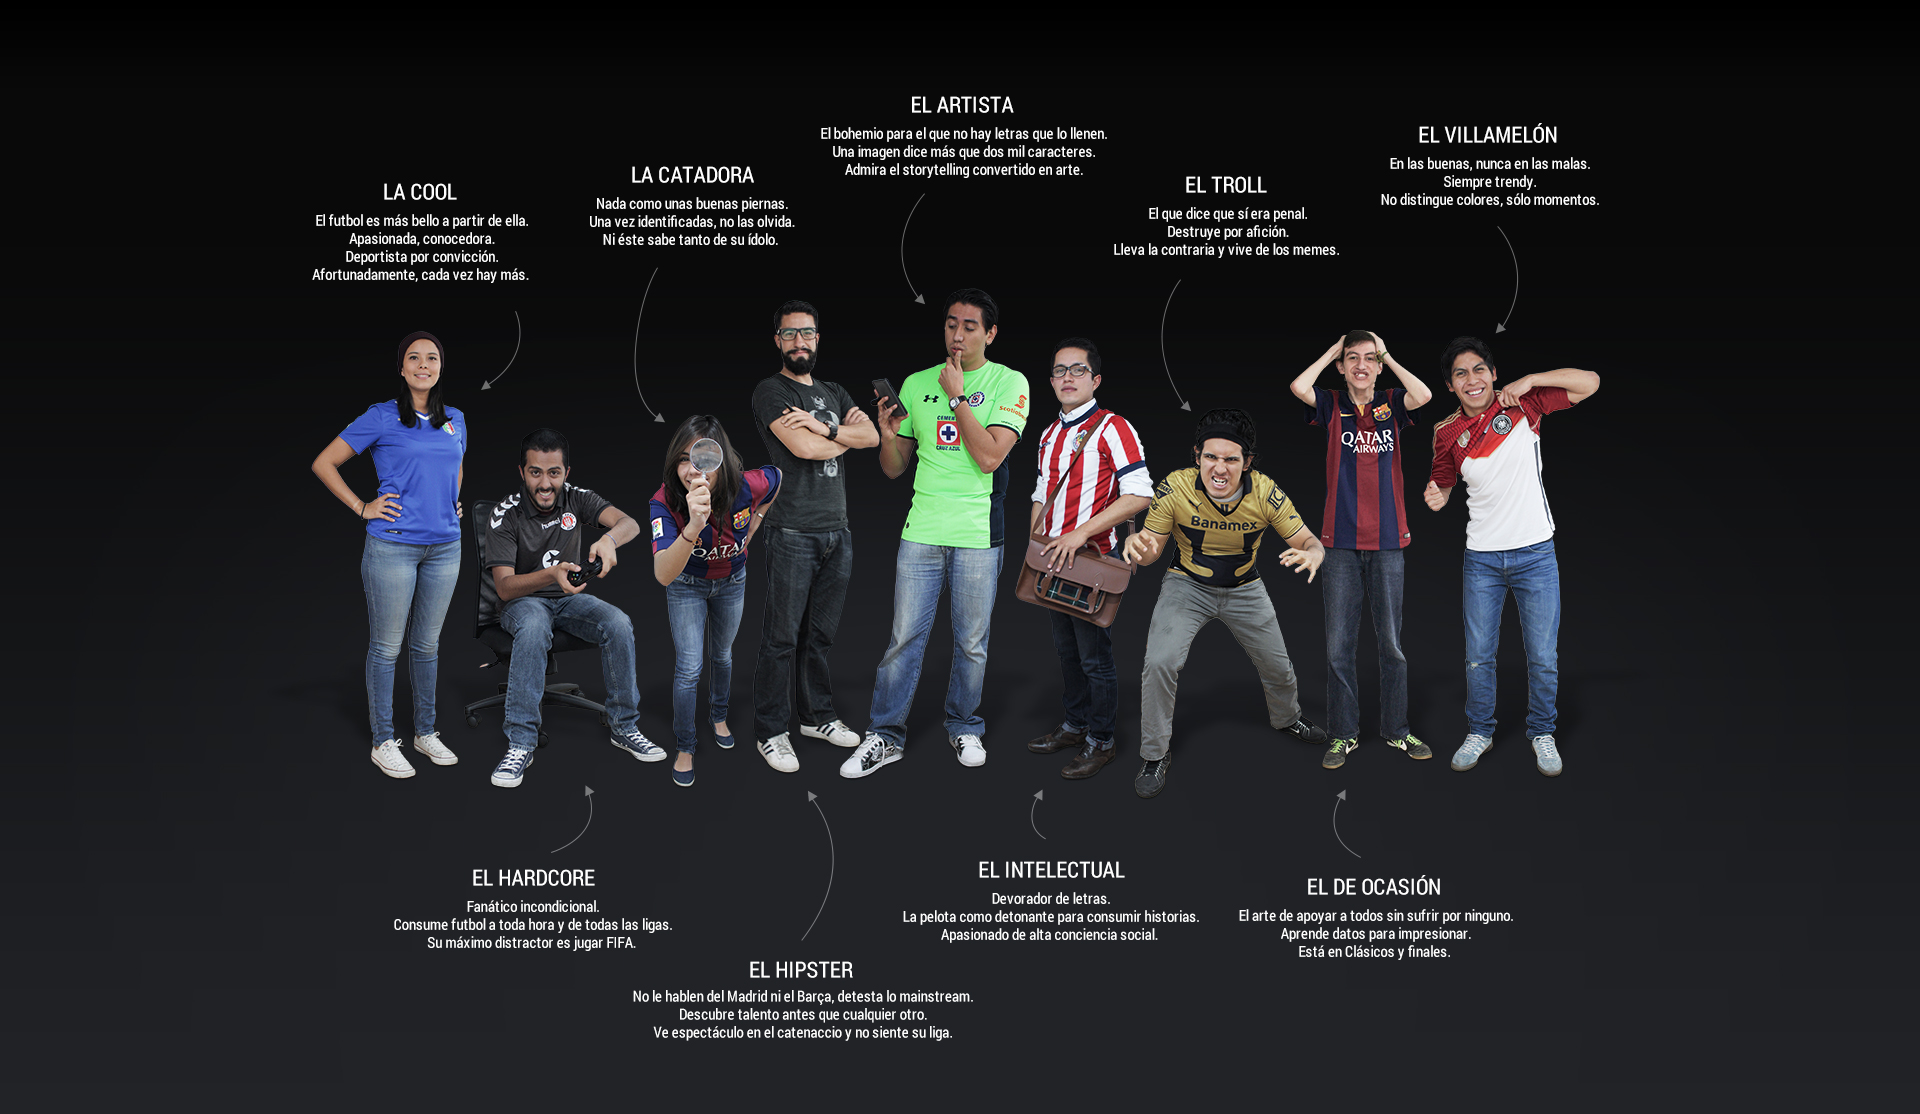
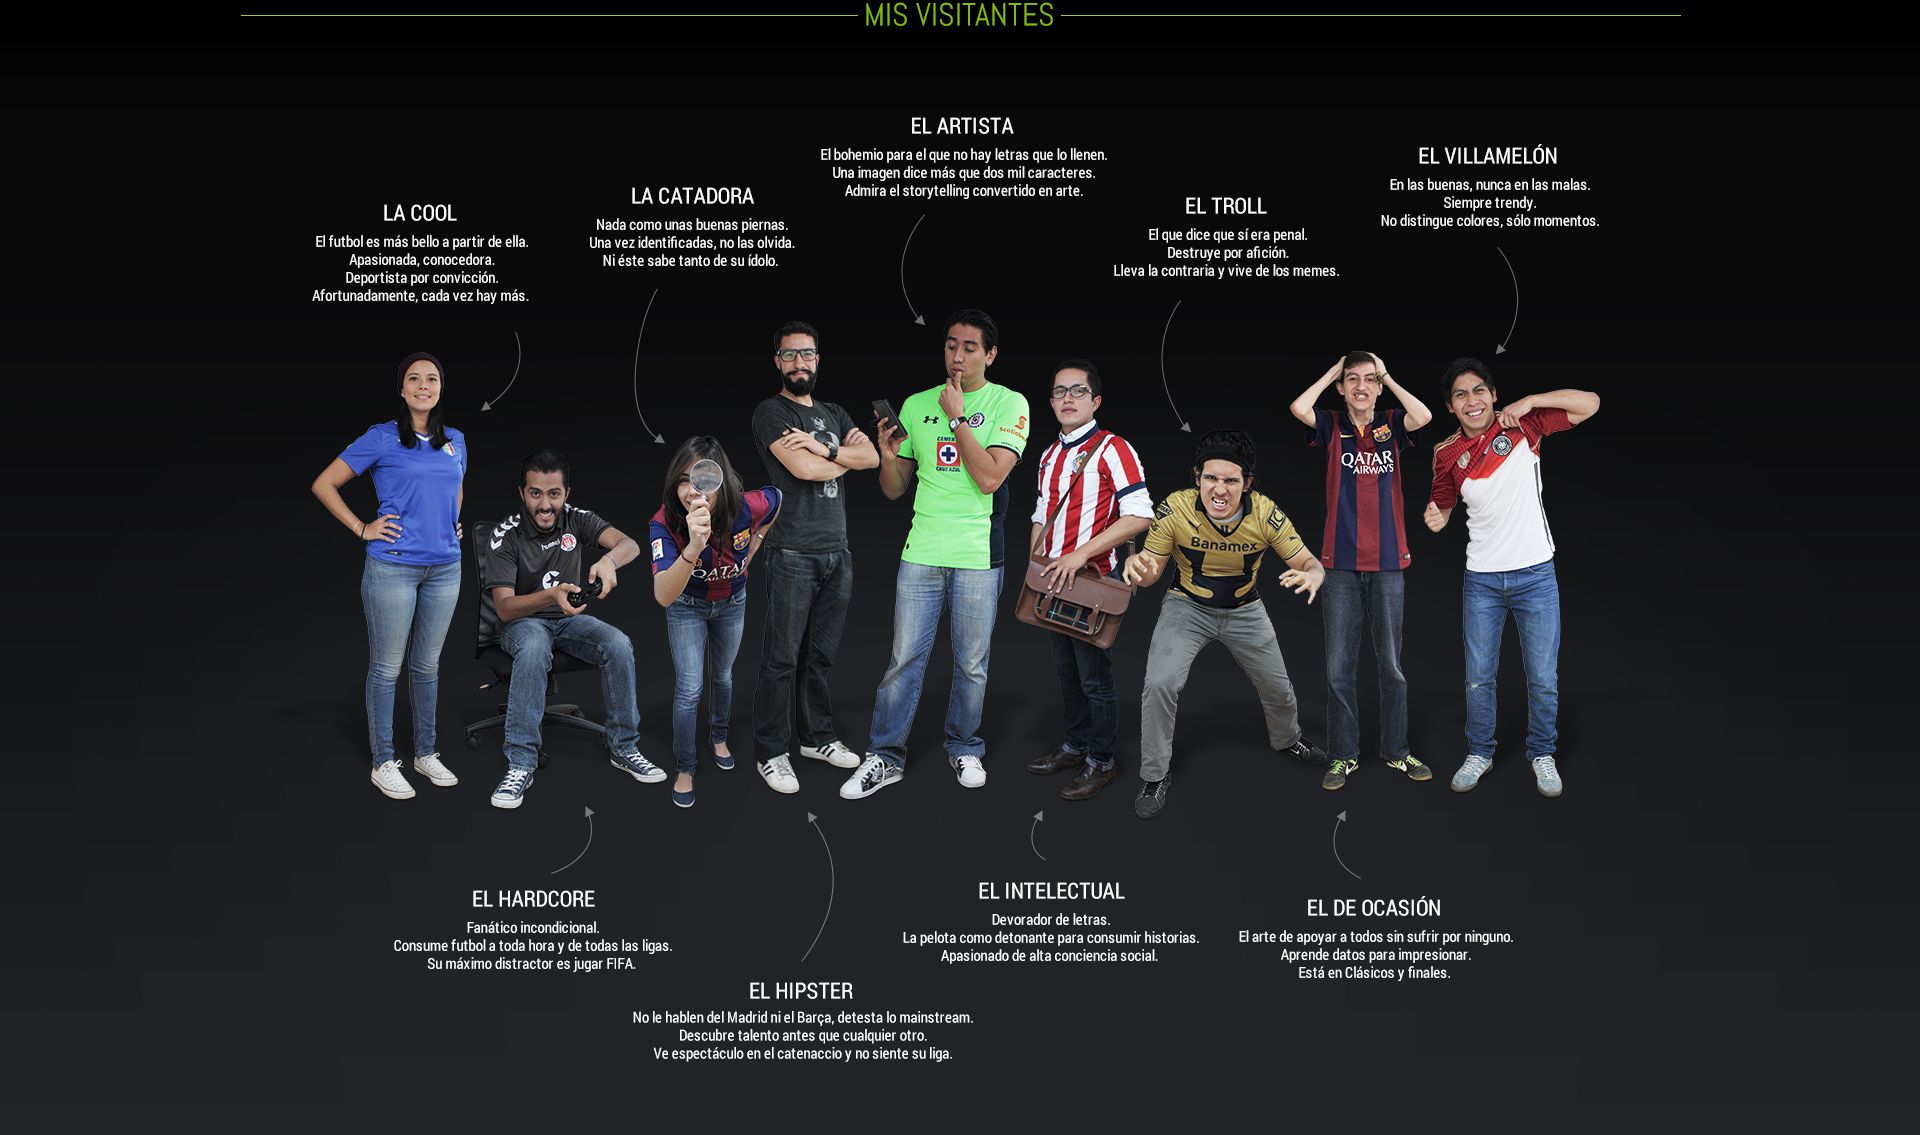
dfgfdgdfgdf

diff --git a/index.html b/index.html
@@ -25,7 +25,7 @@
 		
 	</head>
 	<body>
-		<link type="text/css" rel="stylesheet" href="css/indepth.css?v=1.0.3"/>
+		<link type="text/css" rel="stylesheet" href="css/indepth.css?v=1.0.1"/>
 		<link rel="stylesheet" href="css/jquery.fullPage.css"/>
 		<div class="indepth_pages">
 			
@@ -34,148 +34,102 @@
 						<div class="section indepth_juanes_section">
 							<div class="indepth_juan_container">
 								<div class="indepth_juan_img"><img src="images/Portada/1.png" alt="1"></div>
-								<div class="indepth_juan_text">Lorem ipsum dolor sit amet, consectetur adipisicing elit, sed do eiusmod tempor incididunt ut labore et dolore magna aliqua. Ut enim ad minim veniam,</div>
+								<div class="indepth_juan_text">Futbolero desde la cuna.
+									<br>
+									Nací el 29 de mayo de 2014, a unos días del Mundial.
+								</div>
 							</div>
 						</div>
 						<div class="section indepth_juanes_section" >
 							<div class="indepth_juan_container">
 								<div class="indepth_juan_img"><img src="images/Portada/2.png" alt="1"></div>
-								<div class="indepth_juan_text">Lorem ipsum dolor sit amet, consectetur adipisicing elit, sed do eiusmod tempor incididunt ut labore et dolore magna aliqua. Ut enim ad minim veniam,</div>
+								<div class="indepth_juan_text">Desde entonces, he contado las mejores historias,
+divertido a millones de aficionados como yo
+y vivido los más grandes sucesos deportivos.</div>
 							</div>
 							
 						</div>
 						<div class="section indepth_juanes_section">
 							<div class="indepth_juan_container">
 								<div class="indepth_juan_img"><img src="images/Portada/3.png" alt="1"></div>
-								<div class="indepth_juan_text">Lorem ipsum dolor sit amet, consectetur adipisicing elit, sed do eiusmod tempor incididunt ut labore et dolore magna aliqua. Ut enim ad minim veniam,</div>
+								<div class="indepth_juan_text">
+									Me apasioné con la Selección Mexicana en Brasil…<br>
+Siempre pensaré que no era penal.
+								</div>
 							</div>
 						</div>
 						<div class="section indepth_juanes_section" >
 							<div class="indepth_juan_container">
 								<div class="indepth_juan_img"><img src="images/Portada/4.png" alt="1"></div>
-								<div class="indepth_juan_text">Lorem ipsum dolor sit amet, consectetur adipisicing elit, sed do eiusmod tempor incididunt ut labore et dolore magna aliqua. Ut enim ad minim veniam,</div>
+								<div class="indepth_juan_text">
+									Celebré con el mundo la coronación de Alemania…
+									<br>
+No llores por Messi, Argentina…
+								</div>
 							</div>
 						</div>
 						<div class="section indepth_juanes_section">
 							<div class="indepth_juan_container">
 								<div class="indepth_juan_img"><img src="images/Portada/5.png" alt="1"></div>
-								<div class="indepth_juan_text">Lorem ipsum dolor sit amet, consectetur adipisicing elit, sed do eiusmod tempor incididunt ut labore et dolore magna aliqua. Ut enim ad minim veniam,</div>
+								<div class="indepth_juan_text">
+									Conté la llegada de Ronaldinho a México…
+									<br>
+desde ese día las fiestas en Querétaro son de lo mejor…
+								</div>
 							</div>
 						</div>
 						
 						<div class="section indepth_juanes_section">
 							<div class="indepth_juan_container">
 								<div class="indepth_juan_img"><img src="images/Portada/6.png" alt="1"></div>
-								<div class="indepth_juan_text">Lorem ipsum dolor sit amet, consectetur adipisicing elit, sed do eiusmod tempor incididunt ut labore et dolore magna aliqua. Ut enim ad minim veniam,</div>
+								<div class="indepth_juan_text">
+									Me vestí de merengue con la llegada de Chicharito
+y hasta le dediqué una sección especial.<br>
+Si no se actualiza, es porque no juega…
+								</div>
 							</div>
 						</div>
 						
 						<div class="section indepth_juanes_section">
 							<div class="indepth_juan_container">
-								<div class="indepth_juan_img"><img src="images/Portada/7.png" alt="1"></div>
-								<div class="indepth_juan_text">Lorem ipsum dolor sit amet, consectetur adipisicing elit, sed do eiusmod tempor incididunt ut labore et dolore magna aliqua. Ut enim ad minim veniam,</div>
+								<div class="indepth_juan_img h_juan"><img src="images/Portada/7.png" alt="1"></div>
+								<div class="indepth_juan_text">He sido frank underwood, Freddy Krueger, el Chapulín Colorado
+y hasta un duende celebrando San Patricio.</div>
 							</div>
 						</div>
 						
 						<div class="section indepth_juanes_section">
 							<div class="indepth_juan_container">
 								<div class="indepth_juan_img"><img src="images/Portada/8.png" alt="1"></div>
-								<div class="indepth_juan_text">Lorem ipsum dolor sit amet, consectetur adipisicing elit, sed do eiusmod tempor incididunt ut labore et dolore magna aliqua. Ut enim ad minim veniam,</div>
+								<div class="indepth_juan_text">También he sufrido.<br>
+Me llenó de rabia la matanza de Ayotzinapa,
+guardé luto por el hijo de Hugo y por el Perro Aguayo.
+								</div>
 							</div>
 						</div>
 						
 						<div class="section indepth_juanes_section">
 							<div class="indepth_juan_container">
 								<div class="indepth_juan_img"><img src="images/Portada/9.png" alt="1"></div>
-								<div class="indepth_juan_text">Lorem ipsum dolor sit amet, consectetur adipisicing elit, sed do eiusmod tempor incididunt ut labore et dolore magna aliqua. Ut enim ad minim veniam,</div>
+								<div class="indepth_juan_text">Estoy por cumplir un año…<br>
+y esa pasión que siento por el futbol y por el deporte
+no sería lo mismo sin ti
+y todos los que han decidido visitarme…</div>
+							</div>
+						</div>
+						
+						<div class="section indepth_juan_full">
+							<div class="indepth_full_img" id="indepth_visitantes">
+								
 							</div>
 						</div>
 						
 						<div class="section">
 							<div id="indepth_page2" class="indepth_page indepth_page_content">
+								<div class="indepth_mis_numeros"></div>
 				
-				
-								drtfbhyjnkm
-								<br><br>
-								guyik
-								drtfbhyjnkm
-								<br><br>
-								guyik
-								drtfbhyjnkm
-								<br><br>
-								guyik
-								drtfbhyjnkm
-								<br><br>
-								guyik
-								drtfbhyjnkm
-								<br><br>
-								guyik
-								drtfbhyjnkm
-								<br><br>
-								guyik
-								drtfbhyjnkm
-								<br><br>
-								guyik
-								drtfbhyjnkm
-								<br><br>
-								guyik
-								drtfbhyjnkm
-								<br><br>
-								guyik
-								drtfbhyjnkm
-								<br><br>
-								guyik
-								drtfbhyjnkm
-								<br><br>
-								guyik
-								drtfbhyjnkm
-								<br><br>
-								guyik
-								drtfbhyjnkm
-								<br><br>
-								guyik
-								drtfbhyjnkm
-								<br><br>
-								guyik
-								drtfbhyjnkm
-								<br><br>
-								guyik
-								drtfbhyjnkm
-								<br><br>
-								guyik
-								drtfbhyjnkm
-								<br><br>
-								guyik
-								drtfbhyjnkm
-								<br><br>
-								guyik
-								drtfbhyjnkm
-								<br><br>
-								guyik
-								drtfbhyjnkm
-								<br><br>
-								guyik
-								drtfbhyjnkm
-								<br><br>
-								guyik
-								drtfbhyjnkm
-								<br><br>
-								guyik
-								drtfbhyjnkm
-								<br><br>
-								guyik
-								drtfbhyjnkm
-								<br><br>
-								guyik
-								drtfbhyjnkm
-								<br><br>
-								guyik
-								drtfbhyjnkm
-								<br><br>
-								guyik
-								xxxxxxxxxxx
-								<br><br>
-				x			</div>
+								
+							</div>
 
 						</div>
 						

diff --git a/css/indepth.css b/css/indepth.css
@@ -86,14 +86,31 @@
 }
 
 .indepth_juan_img{
-	display: table;
-	height: 130px;
+	height: 135px;
 	margin: auto;
 	margin-bottom: 40px;
 }
 
+.h_juan{
+	height: 176px;
+}
+
 .indepth_juan_img img{
 	height: 100%;
+}
+
+.indepth_full_img{
+	width: 100%;
+	height: 100%;
+	
+}
+
+#indepth_visitantes{
+	background-image: url(../images/Portada/Visitantes.jpg);
+	background-position: center center;
+	background-size: cover;
+	background-color: #0a0a0a;
+	background-repeat: no-repeat;
 }
 
 .indepth_juan_text{
